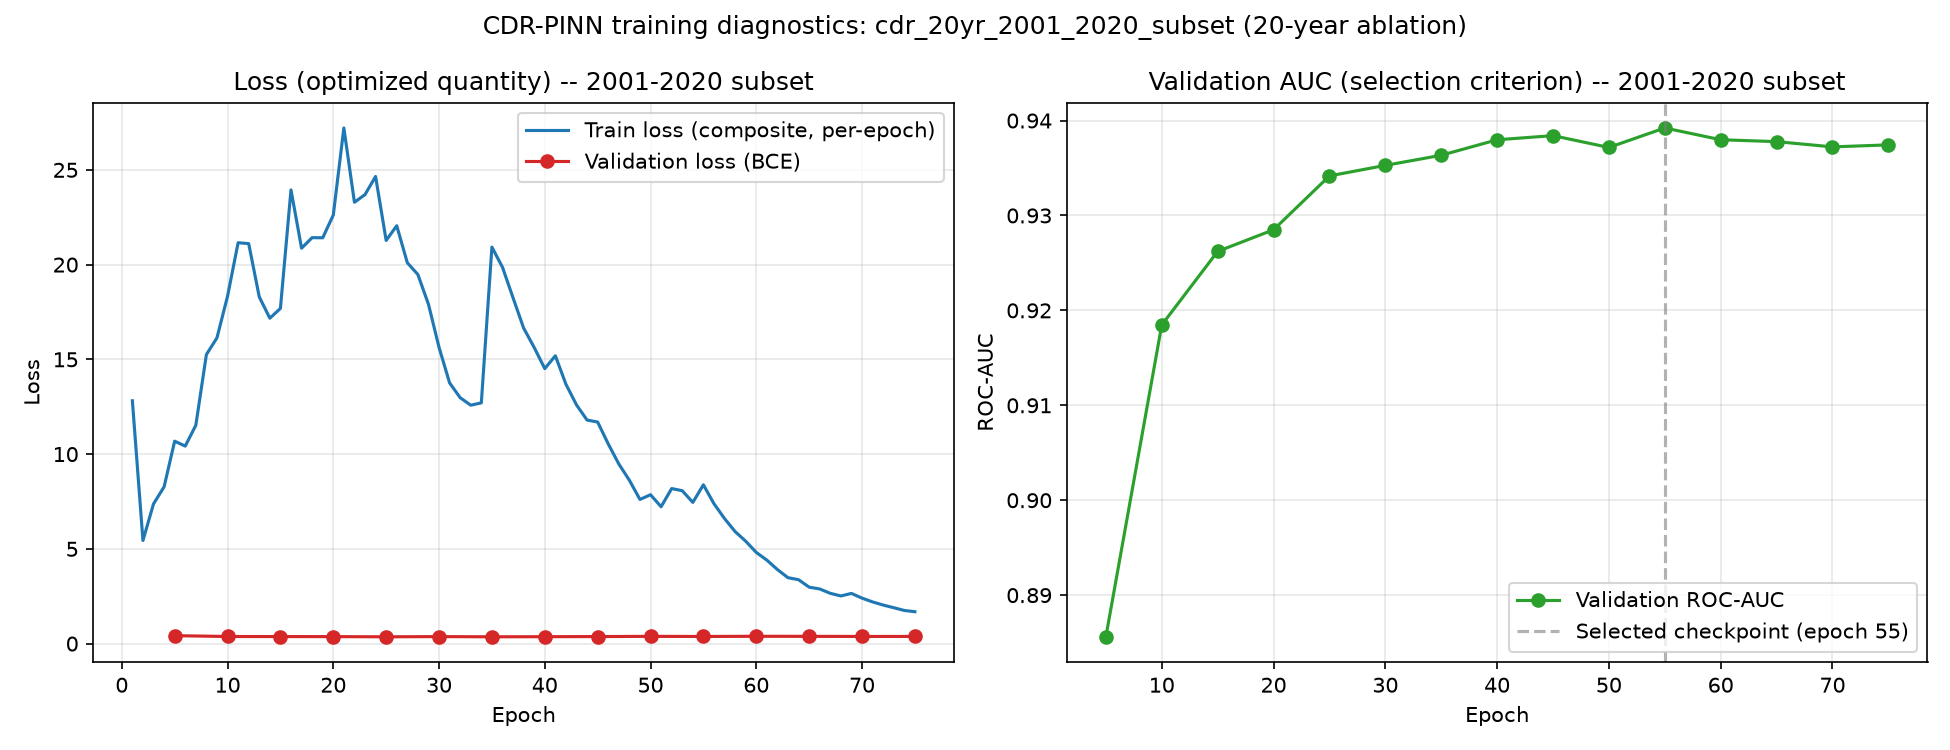
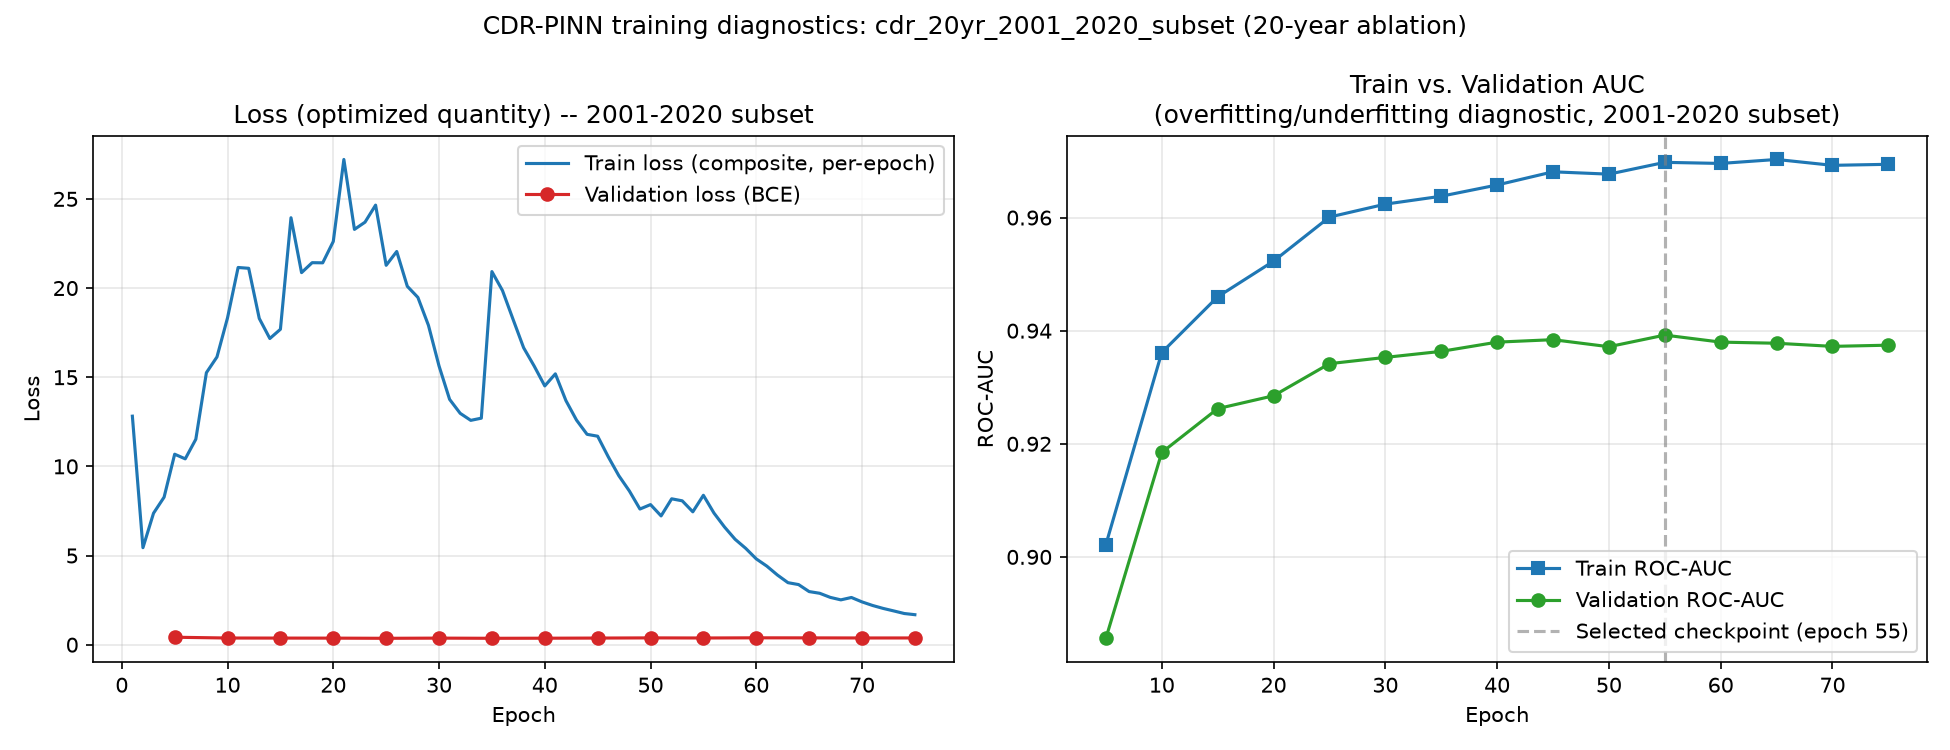
Add train-vs-validation AUC tracking to 22yr/20yr CDR-PINN ablation
Refactor rollout_and_score() into compute_rollout()/score_from_pooled()
in both train_standard_protocol.py and train_20yr_subset.py so training
AUC can be scored from the same rollout pass used for validation AUC,
without doubling compute cost. Loss-curve plots now show a Train-vs-
Validation AUC panel (overfitting/underfitting diagnostic) instead of
validation AUC alone.

Fresh contemporaneous re-runs of both configs reproduce prior numbers
exactly (22yr: val 0.9351/test 0.9398; 20yr: val 0.9392/test 0.9404),
confirming reproducibility across three independent runs. The new
diagnostic shows the 20-year model has a visibly larger train/val AUC
gap than the 22-year model, consistent with less training data driving
more overfitting. Refreshed the paired restricted-window evaluation and
comparison bar chart from the new checkpoints (delta AUC unchanged:
+0.0024).

diff --git a/cdr_pinn/train_standard_protocol.py b/cdr_pinn/train_standard_protocol.py
@@ -101,7 +101,10 @@ def main():
     scheduler = ReduceLROnPlateau(optimizer, mode="min", factor=0.5, patience=2)  # patience in units of VAL_EVERY checks
     balancer = AdaptiveLossBalancer(["data", "pde", "bc", "ic"], update_every=5)
 
-    def rollout_and_score(mask_np):
+    def compute_rollout():
+        """The expensive part (a full sequential 265-month forward pass) -- computed
+        ONCE per validation check and reused to score against every mask (train/val/
+        test), rather than re-rolling-out per mask."""
         model.eval()
         with torch.no_grad():
             u = torch.zeros(1, 1, H, W, device=device)
@@ -112,6 +115,9 @@ def main():
                 u = u_next
             pooled = lse_pool(torch.stack(scores, dim=0), dim=0, tau=5.0)
         model.train()
+        return pooled
+
+    def score_from_pooled(pooled, mask_np):
         m_np = valid_np & mask_np
         y_true = fire_ever_binary_np[m_np]
         y_score = pooled.cpu().numpy()[m_np]
@@ -119,8 +125,6 @@ def main():
         y_true, y_score = y_true[ok], y_score[ok]
         auc = roc_auc_score(y_true, y_score)
         ap = average_precision_score(y_true, y_score)
-        # validation "loss" = BCE of the pooled probability against the binary label --
-        # the classification-relevant scalar used for early stopping / LR-plateau
         m = torch.tensor(m_np, dtype=torch.bool, device=device)
         y_true_t = torch.tensor(fire_ever_binary_np, dtype=torch.float32, device=device)
         p = pooled.clamp(1e-6, 1 - 1e-6)
@@ -128,7 +132,11 @@ def main():
         loss = bce[m].mean().item()
         return loss, auc, ap
 
-    train_loss_history, val_loss_history, val_auc_history, val_epochs = [], [], [], []
+    def rollout_and_score(mask_np):
+        """Convenience wrapper for one-off scoring (e.g. the final test evaluation)."""
+        return score_from_pooled(compute_rollout(), mask_np)
+
+    train_loss_history, val_loss_history, val_auc_history, train_auc_history, val_epochs = [], [], [], [], []
     # Checkpoint selection and early stopping are driven by VALIDATION AUC, not loss --
     # a first pass using val_loss found the two diverge for this model (loss plateaus
     # while AUC keeps climbing, a known effect under heavy class-imbalance reweighting):
@@ -187,14 +195,17 @@ def main():
             break
 
         if (epoch + 1) % VAL_EVERY == 0 or epoch == N_EPOCHS - 1:
-            val_loss, val_auc, val_ap = rollout_and_score(val_np)
+            pooled = compute_rollout()  # one rollout, scored against both train and val masks below
+            val_loss, val_auc, val_ap = score_from_pooled(pooled, val_np)
+            _, train_auc, _ = score_from_pooled(pooled, train_np)
             val_loss_history.append(val_loss)
             val_auc_history.append(val_auc)
+            train_auc_history.append(train_auc)
             val_epochs.append(epoch + 1)
             scheduler.step(val_loss)  # LR scheduling still monitors loss -- a separate concern from checkpoint selection
             print(f"[{CONFIG_NAME} | Epoch {epoch+1}/{N_EPOCHS}] train_loss={epoch_train_loss:.4e} "
-                  f"val_loss={val_loss:.4e} val_auc={val_auc:.4f} lr={optimizer.param_groups[0]['lr']:.2e} "
-                  f"(elapsed {time.time()-t_start:.1f}s)")
+                  f"train_auc={train_auc:.4f} val_loss={val_loss:.4e} val_auc={val_auc:.4f} "
+                  f"lr={optimizer.param_groups[0]['lr']:.2e} (elapsed {time.time()-t_start:.1f}s)")
 
             if val_auc > best_val_auc + 1e-4:
                 best_val_auc = val_auc
@@ -233,11 +244,12 @@ def main():
         ax1.set_title("Loss (optimized quantity)")
         ax1.legend(); ax1.grid(alpha=0.3)
 
+        ax2.plot(val_epochs, train_auc_history, label="Train ROC-AUC", color="#1f77b4", marker="s")
         ax2.plot(val_epochs, val_auc_history, label="Validation ROC-AUC", color="#2ca02c", marker="o")
         best_ep = val_epochs[val_auc_history.index(max(val_auc_history))]
         ax2.axvline(best_ep, color="gray", linestyle="--", alpha=0.6, label=f"Selected checkpoint (epoch {best_ep})")
         ax2.set_xlabel("Epoch"); ax2.set_ylabel("ROC-AUC")
-        ax2.set_title("Validation AUC (selection criterion)")
+        ax2.set_title("Train vs. Validation AUC (overfitting/underfitting diagnostic)")
         ax2.legend(); ax2.grid(alpha=0.3)
 
         fig.suptitle(f"CDR-PINN training diagnostics: {CONFIG_NAME}")
@@ -256,7 +268,7 @@ def main():
         "val_roc_auc": float(val_auc), "val_ap": float(val_ap),
         "test_roc_auc": float(test_auc), "test_ap": float(test_ap),
         "train_loss_history": train_loss_history, "val_loss_history": val_loss_history,
-        "val_auc_history": val_auc_history, "val_epochs": val_epochs,
+        "val_auc_history": val_auc_history, "train_auc_history": train_auc_history, "val_epochs": val_epochs,
     }
     ckpt_path = f"{CKPT_DIR}/cdr_pinn_{CONFIG_NAME}.pt"
     torch.save({"model_state": model.state_dict(), "result": result}, ckpt_path)

diff --git a/cdr_pinn/train_20yr_subset.py b/cdr_pinn/train_20yr_subset.py
@@ -134,7 +134,10 @@ def main():
     scheduler = ReduceLROnPlateau(optimizer, mode="min", factor=0.5, patience=2)
     balancer = AdaptiveLossBalancer(["data", "pde", "bc", "ic"], update_every=5)
 
-    def rollout_and_score(mask_np):
+    def compute_rollout():
+        """The expensive part (a full sequential 239-month forward pass) -- computed
+        ONCE per validation check and reused to score against every mask (train/val/
+        test), rather than re-rolling-out per mask."""
         model.eval()
         with torch.no_grad():
             u = torch.zeros(1, 1, H, W, device=device)
@@ -145,6 +148,9 @@ def main():
                 u = u_next
             pooled = lse_pool(torch.stack(scores, dim=0), dim=0, tau=5.0)
         model.train()
+        return pooled
+
+    def score_from_pooled(pooled, mask_np):
         m_np = valid_np & mask_np
         y_true = fire_ever_binary_np[m_np]
         y_score = pooled.cpu().numpy()[m_np]
@@ -159,7 +165,10 @@ def main():
         loss = bce[m].mean().item()
         return loss, auc, ap
 
-    train_loss_history, val_loss_history, val_auc_history, val_epochs = [], [], [], []
+    def rollout_and_score(mask_np):
+        return score_from_pooled(compute_rollout(), mask_np)
+
+    train_loss_history, val_loss_history, val_auc_history, train_auc_history, val_epochs = [], [], [], [], []
     best_val_auc, best_state, epochs_without_improvement = -1.0, None, 0
     t_start = time.time()
 
@@ -210,14 +219,17 @@ def main():
             break
 
         if (epoch + 1) % VAL_EVERY == 0 or epoch == N_EPOCHS - 1:
-            val_loss, val_auc, val_ap = rollout_and_score(val_np)
+            pooled = compute_rollout()
+            val_loss, val_auc, val_ap = score_from_pooled(pooled, val_np)
+            _, train_auc, _ = score_from_pooled(pooled, train_np)
             val_loss_history.append(val_loss)
             val_auc_history.append(val_auc)
+            train_auc_history.append(train_auc)
             val_epochs.append(epoch + 1)
             scheduler.step(val_loss)
             print(f"[{CONFIG_NAME} | Epoch {epoch+1}/{N_EPOCHS}] train_loss={epoch_train_loss:.4e} "
-                  f"val_loss={val_loss:.4e} val_auc={val_auc:.4f} lr={optimizer.param_groups[0]['lr']:.2e} "
-                  f"(elapsed {time.time()-t_start:.1f}s)")
+                  f"train_auc={train_auc:.4f} val_loss={val_loss:.4e} val_auc={val_auc:.4f} "
+                  f"lr={optimizer.param_groups[0]['lr']:.2e} (elapsed {time.time()-t_start:.1f}s)")
 
             if val_auc > best_val_auc + 1e-4:
                 best_val_auc = val_auc
@@ -253,11 +265,12 @@ def main():
         ax1.set_title("Loss (optimized quantity) -- 2001-2020 subset")
         ax1.legend(); ax1.grid(alpha=0.3)
 
+        ax2.plot(val_epochs, train_auc_history, label="Train ROC-AUC", color="#1f77b4", marker="s")
         ax2.plot(val_epochs, val_auc_history, label="Validation ROC-AUC", color="#2ca02c", marker="o")
         best_ep = val_epochs[val_auc_history.index(max(val_auc_history))]
         ax2.axvline(best_ep, color="gray", linestyle="--", alpha=0.6, label=f"Selected checkpoint (epoch {best_ep})")
         ax2.set_xlabel("Epoch"); ax2.set_ylabel("ROC-AUC")
-        ax2.set_title("Validation AUC (selection criterion) -- 2001-2020 subset")
+        ax2.set_title("Train vs. Validation AUC\n(overfitting/underfitting diagnostic, 2001-2020 subset)")
         ax2.legend(); ax2.grid(alpha=0.3)
 
         fig.suptitle(f"CDR-PINN training diagnostics: {CONFIG_NAME} (20-year ablation)")
@@ -280,7 +293,7 @@ def main():
         "val_roc_auc": float(val_auc), "val_ap": float(val_ap),
         "test_roc_auc": float(test_auc), "test_ap": float(test_ap),
         "train_loss_history": train_loss_history, "val_loss_history": val_loss_history,
-        "val_auc_history": val_auc_history, "val_epochs": val_epochs,
+        "val_auc_history": val_auc_history, "train_auc_history": train_auc_history, "val_epochs": val_epochs,
     }
     ckpt_path = f"{CKPT_DIR}/cdr_pinn_{CONFIG_NAME}.pt"
     torch.save({"model_state": model.state_dict(), "result": result}, ckpt_path)

diff --git a/cdr_pinn/plot_22yr_vs_20yr_ablation.py b/cdr_pinn/plot_22yr_vs_20yr_ablation.py
@@ -14,8 +14,9 @@ import numpy as np
 CKPT_DIR = r"D:\FOREST FIRE MAPPING(INDIA)\Physics_Informed_FireRisk_Model\CDR_PINN_Data"
 OUT_PATH = r"D:\FOREST FIRE MAPPING(INDIA)\Physics_Informed_FireRisk_Model\CDR_PINN_Data\cdr_pinn_22yr_vs_20yr_ablation.png"
 
-with open(f"{CKPT_DIR}/cdr_pinn_full_cdr_standard_protocol_result.json") as f:
-    full_own = json.load(f)
+with open(f"{CKPT_DIR}/cdr_pinn_full_cdr_22yr_paired_with_20yr_ablation_result.json") as f:
+    full_own = json.load(f)  # the fresh, contemporaneous 22yr run paired with the 20yr ablation
+    # (reproduced the original canonical run's numbers exactly: val 0.9351, test 0.9398/0.9223)
 with open(f"{CKPT_DIR}/cdr_pinn_full_model_on_20yr_window_result.json") as f:
     full_on_20yr = json.load(f)
 with open(f"{CKPT_DIR}/cdr_pinn_cdr_20yr_2001_2020_subset_result.json") as f:
